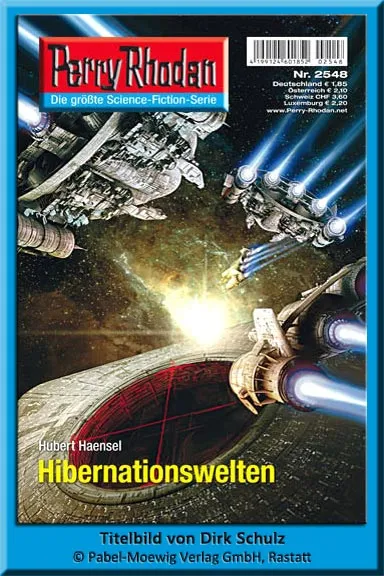
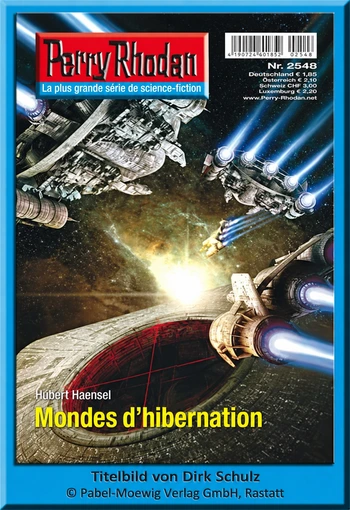
fix: translate covers 2543-2552

diff --git a/src/content/chapitres/de-2550.md b/src/content/chapitres/de-2550.md
@@ -4,11 +4,11 @@ cycleNumber: 36
 chapterNumber: 2550
 type: translation
 originalTitle: "Die Welt der 20.000 Welten"
-cover: "/images/covers/de-2550.webp"
+cover: "/images/covers/de-2550.webp?v=20261116-2550-fr"
 auteur: "Michael Marcus Thurner"
 parution: "2010-07-16"
 statut: traduit
-titleFr: "Perry 2550 – Le Monde des 20 000 Mondes"
+titleFr: "Perry 2550 - Le monde des 20 000 mondes"
 ---
 
 Le Monde des 20 000 Mondes

diff --git a/src/content/chapitres/de-2551.md b/src/content/chapitres/de-2551.md
@@ -4,11 +4,11 @@ cycleNumber: 36
 chapterNumber: 2551
 type: translation
 originalTitle: "Das Wunder von Anthuresta"
-cover: "/images/covers/de-2551.webp"
+cover: "/images/covers/de-2551.webp?v=20261116-2551-fr"
 auteur: "Michael Marcus Thurner"
 parution: "2010-07-23"
 statut: traduit
-titleFr: "Perry 2551 - Le Miracle d’Anthuresta"
+titleFr: "Perry 2551 - Le miracle d’Anthuresta"
 ---
 
 Le Miracle d’Anthuresta

diff --git a/src/content/chapitres/de-2543.md b/src/content/chapitres/de-2543.md
@@ -4,11 +4,11 @@ cycleNumber: 36
 chapterNumber: 2543
 type: translation
 originalTitle: "Flucht nach Talanis"
-cover: "/images/covers/de-2543.webp"
+cover: "/images/covers/de-2543.webp?v=20261116-2543-fr"
 auteur: "Hubert Haensel"
 parution: "2010-05-28"
 statut: traduit
-titleFr: "Perry 2543 – La Fuite vers Talanis"
+titleFr: "Perry 2543 - La fuite vers Talanis"
 ---
 
 ## Résumé des épisodes précédents

diff --git a/src/content/chapitres/de-2547.md b/src/content/chapitres/de-2547.md
@@ -4,11 +4,11 @@ cycleNumber: 36
 chapterNumber: 2547
 type: translation
 originalTitle: "Garrabo in den Tod"
-cover: "/images/covers/de-2547.webp"
+cover: "/images/covers/de-2547.webp?v=20261116-2547-fr"
 auteur: "Marc A. Herren"
 parution: "2010-06-25"
 statut: traduit
-titleFr: "Perry 2547 – *Garrabo vers la mort*"
+titleFr: "Perry 2547 - Garrabo vers la mort"
 ---
 
 *Garrabo vers la mort*

diff --git a/src/content/chapitres/de-2549.md b/src/content/chapitres/de-2549.md
@@ -4,11 +4,11 @@ cycleNumber: 36
 chapterNumber: 2549
 type: translation
 originalTitle: "Feueraugen"
-cover: "/images/covers/de-2549.webp"
+cover: "/images/covers/de-2549.webp?v=20261116-2549-fr"
 auteur: "Hubert Haensel"
 parution: "2010-07-09"
 statut: traduit
-titleFr: "Perry 2549 - Yeux de feu"
+titleFr: "Perry 2549 - Les yeux de feu"
 ---
 
 Feueraugen

diff --git a/src/content/chapitres/de-2552.md b/src/content/chapitres/de-2552.md
@@ -4,11 +4,11 @@ cycleNumber: 36
 chapterNumber: 2552
 type: translation
 originalTitle: "Totenspiel"
-cover: "/images/covers/de-2552.webp"
+cover: "/images/covers/de-2552.webp?v=20261116-2552-fr"
 auteur: "Frank Borsch"
 parution: "2010-07-30"
 statut: traduit
-titleFr: "Perry 2552 - Jeu"
+titleFr: "Perry 2552 - Jeu des morts"
 ---
 
 Totenspiel

diff --git a/src/content/chapitres/de-2544.md b/src/content/chapitres/de-2544.md
@@ -4,7 +4,7 @@ cycleNumber: 36
 chapterNumber: 2544
 type: translation
 originalTitle: "Gefangene des Handelssterns"
-cover: "/images/covers/de-2544.webp"
+cover: "/images/covers/de-2544.webp?v=20261116-2544-fr"
 auteur: "Leo Lukas"
 parution: "2010-06-04"
 statut: traduit

diff --git a/src/content/chapitres/de-2546.md b/src/content/chapitres/de-2546.md
@@ -4,7 +4,7 @@ cycleNumber: 36
 chapterNumber: 2546
 type: translation
 originalTitle: "26 Minuten bis ITHAFOR"
-cover: "/images/covers/de-2546.webp"
+cover: "/images/covers/de-2546.webp?v=20261116-2546-fr"
 auteur: "Arndt Ellmer"
 parution: "2010-06-18"
 statut: traduit

diff --git a/src/content/chapitres/de-2545.md b/src/content/chapitres/de-2545.md
@@ -4,7 +4,7 @@ cycleNumber: 36
 chapterNumber: 2545
 type: translation
 originalTitle: "Vatrox-Tod"
-cover: "/images/covers/de-2545.webp"
+cover: "/images/covers/de-2545.webp?v=20261116-2545-fr"
 auteur: "Michael Marcus Thurner"
 parution: "2010-06-11"
 statut: traduit

diff --git a/src/content/chapitres/de-2548.md b/src/content/chapitres/de-2548.md
@@ -4,7 +4,7 @@ cycleNumber: 36
 chapterNumber: 2548
 type: translation
 originalTitle: "Hibernationswelten"
-cover: "/images/covers/de-2548.webp"
+cover: "/images/covers/de-2548.webp?v=20261116-2548-fr"
 auteur: "Hubert Haensel"
 parution: "2010-07-02"
 statut: traduit
